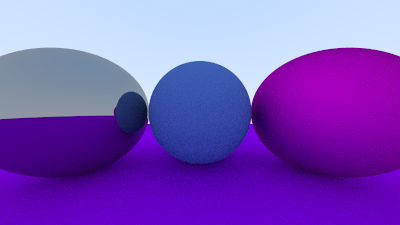
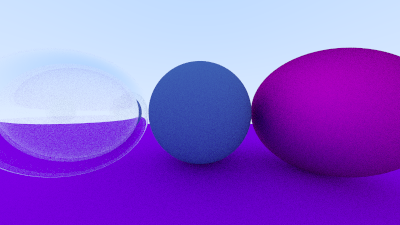
Add dielectric (transparent) material

Changed region(s): [[0.0, 0.1867, 0.48, 1.0]]

diff --git a/material.h b/material.h
@@ -55,4 +55,42 @@ private:
     double fuzz;
 };
 
+class dielectric : public material {
+public:
+    dielectric(double refraction_index) : refraction_index(refraction_index) {}
+
+    bool scatter(const ray& r_in, const hit_record& rec, color& attenuation, ray& scattered)
+        const override {
+        attenuation = color(1.0, 1.0, 1.0);
+        double ri = rec.front_face ? (1.0 / refraction_index) : refraction_index;
+
+        vec3 unit_direction = unit_vector(r_in.direction());
+        double cos_theta = fmin(dot(-unit_direction, rec.normal), 1.0);
+        double sin_theta = sqrt(1.0 - cos_theta * cos_theta);
+
+        bool cannot_refract = ri * sin_theta > 1.0;
+        vec3 direction;
+
+        if (cannot_refract || reflectance(cos_theta, ri) > random_double())
+            direction = reflect(unit_direction, rec.normal);
+        else
+            direction = refract(unit_direction, rec.normal, ri);
+
+        scattered = ray(rec.p, direction);
+        return true;
+    }
+
+private:
+    // Refractive index in vacuum or air, or the ratio of the material's refractive index over
+    // the refractive index of the enclosing media
+    double refraction_index;
+
+    static double reflectance(double cosine, double refraction_index) {
+        // Use Schlick's approximation for reflectance.
+        auto r0 = (1 - refraction_index) / (1 + refraction_index);
+        r0 = r0 * r0;
+        return r0 + (1 - r0) * pow((1 - cosine), 5);
+    }
+};
+
 #endif

diff --git a/RayTracing in One Weekend.cpp b/RayTracing in One Weekend.cpp
@@ -14,12 +14,15 @@ int main()
 
     auto material_ground = make_shared<lambertian>(color(0.4, 0.0, 0.8));
     auto material_center = make_shared<lambertian>(color(0.1, 0.2, 0.5));
-    auto material_left = make_shared<metal>(color(0.4, 0.4, 0.4), 0.0);
+    // auto material_left = make_shared<metal>(color(0.4, 0.4, 0.4), 0.0);
+    auto material_left = make_shared<dielectric>(1.50);
+    auto material_air_bubble_left = make_shared<dielectric>(1.00 / 1.50);
     auto material_right = make_shared<metal>(color(0.8, 0.0, 0.6), 1.0);
 
     world.add(make_shared<sphere>(point3(0.0, -100.5, -1.0), 100.0, material_ground));
     world.add(make_shared<sphere>(point3(0.0, 0.0, -1.2), 0.5, material_center));
     world.add(make_shared<sphere>(point3(-1.0, 0.0, -1.0), 0.5, material_left));
+    world.add(make_shared<sphere>(point3(-1.0, 0.0, -1.0), 0.4, material_air_bubble_left));
     world.add(make_shared<sphere>(point3(1.0, 0.0, -1.0), 0.5, material_right));
 
     camera cam;

diff --git a/vec3.h b/vec3.h
@@ -131,4 +131,11 @@ inline vec3 reflect(const vec3& v, const vec3& n) {
     return v - 2 * dot(v, n) * n;
 }
 
+inline vec3 refract(const vec3& uv, const vec3& n, double etai_over_etat) {
+    auto cos_theta = fmin(dot(-uv, n), 1.0);
+    vec3 r_out_perp = etai_over_etat * (uv + cos_theta * n);
+    vec3 r_out_parallel = -sqrt(fabs(1.0 - r_out_perp.length_squared())) * n;
+    return r_out_perp + r_out_parallel;
+}
+
 #endif
